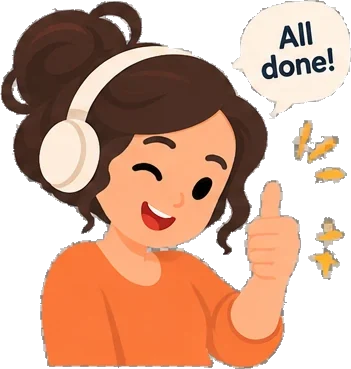
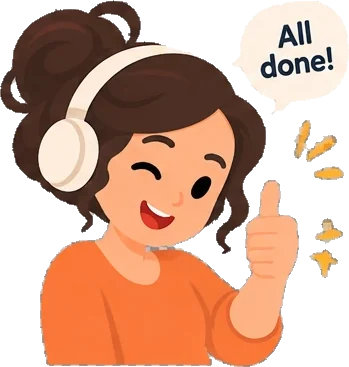
Tutorial: remove the white outline around the listening guide
Cutting her out of the checkerboard while keeping the white speech
bubbles left a light grey fringe where her edges blended into the
checkerboard, which read as a white outline on the dark app. That fringe
is peeled away now (stopping at pure white, so the bubbles keep their
edge), and a few faded scribbles that looked like dirt are gone.

diff --git a/components/tutorial/guide-character.tsx b/components/tutorial/guide-character.tsx
@@ -124,10 +124,10 @@ export const CARD_GUIDES = {
   listen: {
     kind: 'poses', name: 'listen', side: 'right',
     frames: [
-      { x: 0, cut: 417, w: 361, h: 421 }, { x: 4, cut: 407, w: 361, h: 409 },
-      { x: 3, cut: 427, w: 385, h: 428 }, { x: -4, cut: 443, w: 388, h: 445 },
-      { x: 2, cut: 407, w: 348, h: 411 }, { x: -6, cut: 402, w: 405, h: 403 },
-      { x: -21, cut: 391, w: 411, h: 402 }, { x: 10, cut: 366, w: 351, h: 369 },
+      { x: 0, cut: 414, w: 359, h: 416 }, { x: 2, cut: 406, w: 360, h: 407 },
+      { x: 3, cut: 426, w: 383, h: 427 }, { x: -6, cut: 441, w: 387, h: 443 },
+      { x: 2, cut: 406, w: 347, h: 407 }, { x: -7, cut: 401, w: 402, h: 403 },
+      { x: -20, cut: 391, w: 409, h: 402 }, { x: 12, cut: 365, w: 349, h: 367 },
     ],
     intro: [[1, 1300]],
     loop: [[2, 1100], [3, 1000], [4, 1100], [5, 1100], [6, 1000], [7, 1400], [8, 1300], [1, 1300]],
